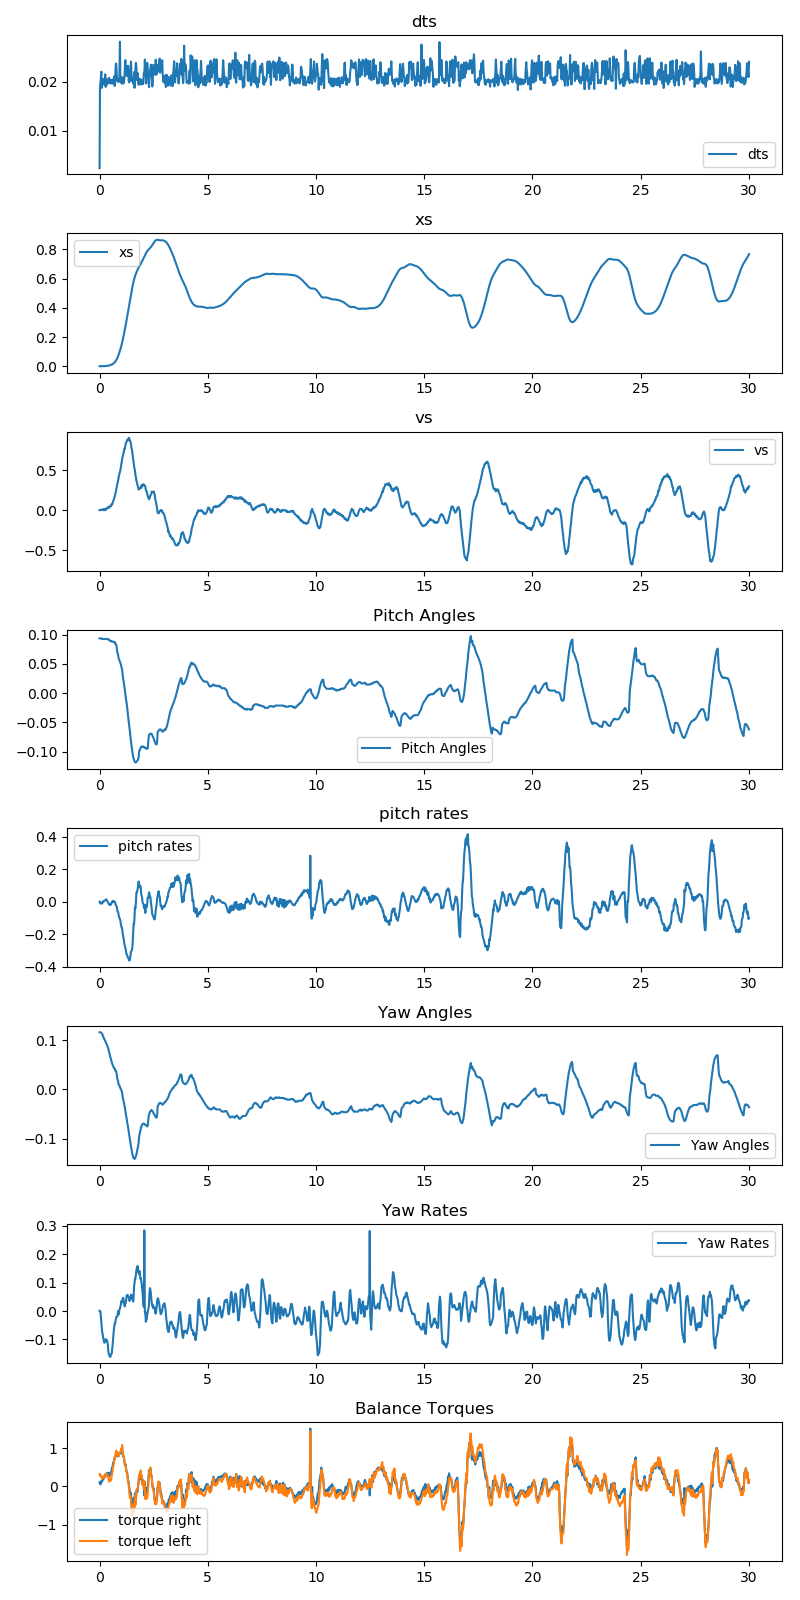
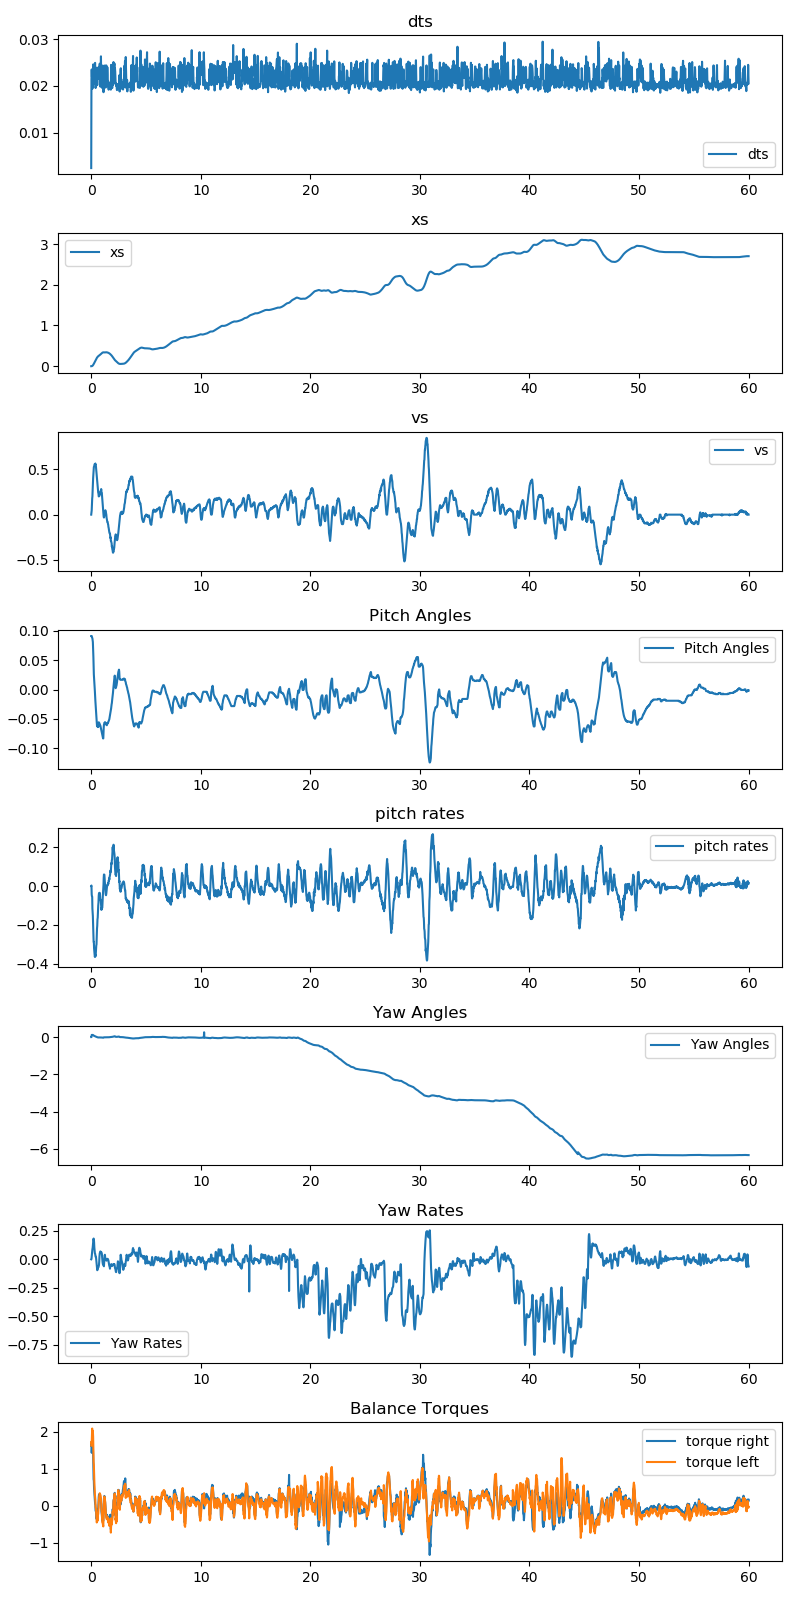
working WASD code

diff --git a/LQR.py b/LQR.py
@@ -5,6 +5,12 @@ import time
 import matplotlib.pyplot as plt
 import numpy as np
 import IMU
+from sshkeyboard import listen_keyboard
+from threading import Thread
+from queue import Queue
+
+queue = Queue()
+
 
 from odriveDriver import Axis
 plt.switch_backend('Agg')
@@ -19,18 +25,47 @@ odrv0 = odrive.find_any()
 ref_time = time.time()
 t2m = 0.528 #turns to meters
 
-
-
-# K = np.array([[-3.1623,  -4.4213, -28.1290,  -8.7088, 0, 0], [0,0,0,0,1,1.2749]]) #New dynamimcs ones
-# K = np.array([[-1.0000, -2.0620, -21.0476, -6.6199, -0.0000, 0.0000], [0.0000, 0.0000, 0.0000, 0.0000, 1.0000, 1.2749]]) #swapped Q's
-# K = np.array([[-10.0000, -10.6250, -45.9842, -13.8316, -0.0000, -0.0000], [0.0000, 0.0000, 0.0000, 0.0000, 3.1623, 2.4132]]) #stronger R's set to 1
-# K = np.array([[-4.4721, -5.7066, -31.9805, -9.8143, -0.0000, -0.0000], [0.0000, 0.0000, 0.0000, 0.0000, 1.4142, 1.5353]]) #strogner R's  set to 5
 K = np.array([[-5.77, -6.92, -35.52, -10.83, -0.00, 0.00],[-0.00, -0.00, -0.00, 0.00, 1.83, 1.77]]) #stronger R's set to 3
+Xf = np.array([0, 0, 0, 0, 0, 0],dtype=np.float64)
 
+def press(key):
+    if key == 'w':
+        queue.put(np.array([0.1, 0, 0, 0, 0, 0], dtype=np.float64))
+        print("W Pressed, 0.1m forward")
+    elif key == 's':
+        queue.put(np.array([-0.1, 0, 0, 0, 0, 0], dtype=np.float64))
+        print("S Pressed, 0.1m backward")
+    elif key == 'a':
+        queue.put(np.array([0, 0, 0, 0, 0, -0.5], dtype=np.float64))
+        print("A Pressed, 0.5rad left")
+    elif key == 'd':
+        queue.put(np.array([0, 0, 0, 0, 0, 0.5], dtype=np.float64))
+        print("D Pressed, 0.5rad right")
+    print(f"'{key}' pressed")
 
+def update_Xf():
+    global Xf
+    while True:
+        # Get the next update from the queue and add it to Xf
+        update = queue.get()
+        Xf += update
+
+def release(key):
+    print(f"'{key}' released")
+
+def keyboard_listener():
+    listen_keyboard(on_press=press)
+
+keyboard_thread = Thread(target=keyboard_listener)
+keyboard_thread.start()
+
+# Start the Xf update thread
+update_thread = Thread(target=update_Xf)
+update_thread.start()
 
 def LQR(axis0, axis1):
     # read initial values to offset
+    global Xf
     x_init = axis0.get_pos_turns() * t2m
 
     pitch_angle=IMU.getPitchAngle() 
@@ -38,7 +73,7 @@ def LQR(axis0, axis1):
     pitch_rate=IMU.getPitchRate()
     yaw_rate=IMU.getYawRate()
 
-    Xf = np.array([0.5, 0, 0, 0, 0, 0])
+    # Xf = np.array([0, 0, 0, 0, 0, 0])
 
     start_time = time.time()
     cur_time = time.time() - start_time
@@ -59,14 +94,15 @@ def LQR(axis0, axis1):
     Cl_commands = []
     Cr_commands = []
 
-    while cur_time < 30:
+    while cur_time < 60:
         time.sleep(0.001)
 
+
         # if cur_time > 3:
-        #     Xf = np.array([0.0 + (cur_time-3)*0.2, 0.0, 0, 0])
+        #     Xf = np.array([0, 0, 0, 0, 0.0 + (cur_time-3)*0.5, 0])
 
         #stop the program if the vel gets super high
-        if abs(axis0.get_vel()) > 3:
+        if abs(axis0.get_vel()) > 2:
             break
 
         cur_time = time.time() - start_time # relative time starts at 0

diff --git a/IMU.py b/IMU.py
@@ -1,6 +1,7 @@
 import time
 from smbus2 import SMBus
 import math
+import numpy as np
 
 maxI2CBusses = 2
 
@@ -13,6 +14,11 @@ class IMU:
         self.maxData = maxData
         self.chipAdd = chipAdd
 
+        #for wrapping yaw:
+        self.continuous_angle = 0
+        self.prev_angle = 0
+        self.wraps = 0
+
         if (bus > maxI2CBusses or bus < 0):
             print("Error attempting to access I2C bus out of range")
 
@@ -21,6 +27,8 @@ class IMU:
             self.bus = SMBus(bus)
         except:
             print("Failed to open I2C SMBus on port " + str(bus))
+
+    
 
     # generic I2C access function for reading
     def readByte(self, offset):
@@ -137,6 +145,9 @@ class IMU:
                 self.twosComp(rawY, 16)/100, 
                 self.twosComp(rawZ, 16)/100]
 
+
+
+
     # get relative yaw angle from start, in documentation this is the eularian using a fusion combination of accelerometer and gyro
     def getYawAngle(self):
         if(not self.setup):
@@ -154,11 +165,21 @@ class IMU:
         # units are in rad
         yaw = self.twosComp(rawX, 16)/900
 
-        # returned as units of rad
-        if yaw > math.pi:
-            return yaw - 2*math.pi
-        else:
-            return yaw
+        #goes from 0 -> 360 +ve, and 0 -> -360 -ve
+
+        norm = math.atan2(math.sin(yaw), math.cos(yaw))
+
+        if norm - self.prev_angle > math.pi:
+            self.wraps -= 1
+        elif self.prev_angle - norm > math.pi:
+            self.wraps += 1
+
+        self.prev_angle = norm
+        self.continuous_angle = norm + 2*math.pi*self.wraps
+
+        return self.continuous_angle
+
+
 
     # calculate angle based on the angle of the gravity vector and a trim value for what it is while balanced
     def getPitchAngle(self):

diff --git a/tests/IMU_test.py b/tests/IMU_test.py
@@ -21,7 +21,7 @@ plt.switch_backend('Agg')
 
 stamp = time.time()
 while (time.time() - stamp < 200):
-    time.sleep(0.005)
+    time.sleep(0.1)
     # print(IMU.getAngleCompRads())
     # print(f'{IMU.getWogma()[0]:.3f} | {IMU.getWogma()[1]:.3f} | {IMU.getWogma()[2]:.3f}')
     # print(IMU.getWogma()[0], )
@@ -35,7 +35,7 @@ while (time.time() - stamp < 200):
 
 
     # print(angle)
-    print(anglePitch, angleYaw)
+    print(angleYaw)
 
     # values.append(angle[0])
     # valuesRaw1.append(angle[1])

diff --git a/keyboard.py b/keyboard.py
@@ -1,0 +1,12 @@
+from sshkeyboard import listen_keyboard
+
+def press(key):
+    print(f"'{key}' pressed")
+
+def release(key):
+    print(f"'{key}' released")
+
+listen_keyboard(
+    on_press=press,
+    # on_release=release,
+)
